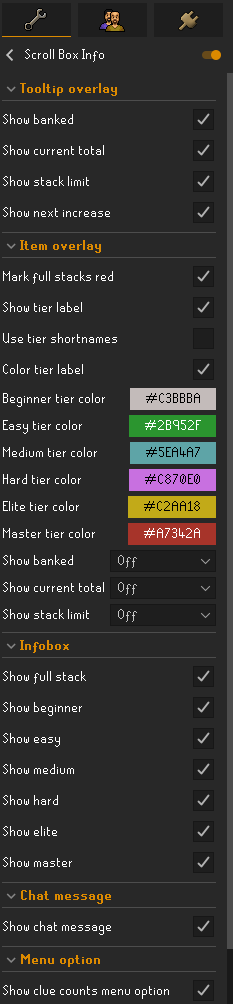
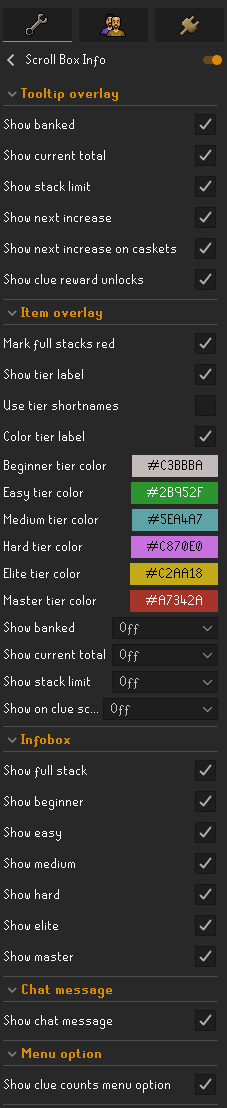
Update README and pictures

diff --git a/README.md b/README.md
@@ -14,6 +14,8 @@
 - Current total: How many clues you have across your inventory and bank
 - Stack limit: How many clues of that tier you can currently hold at one time
 - Next increase: How many more clues must be completed to increase your stack limit
+- Next increase on caskets: Displays next increase amount on reward caskets
+- Clue reward unlocks: How many more clues must be completed to unlock the tier-specific reward
 
 ![Screenshot](tooltip-overlay.png)
 <hr/>
